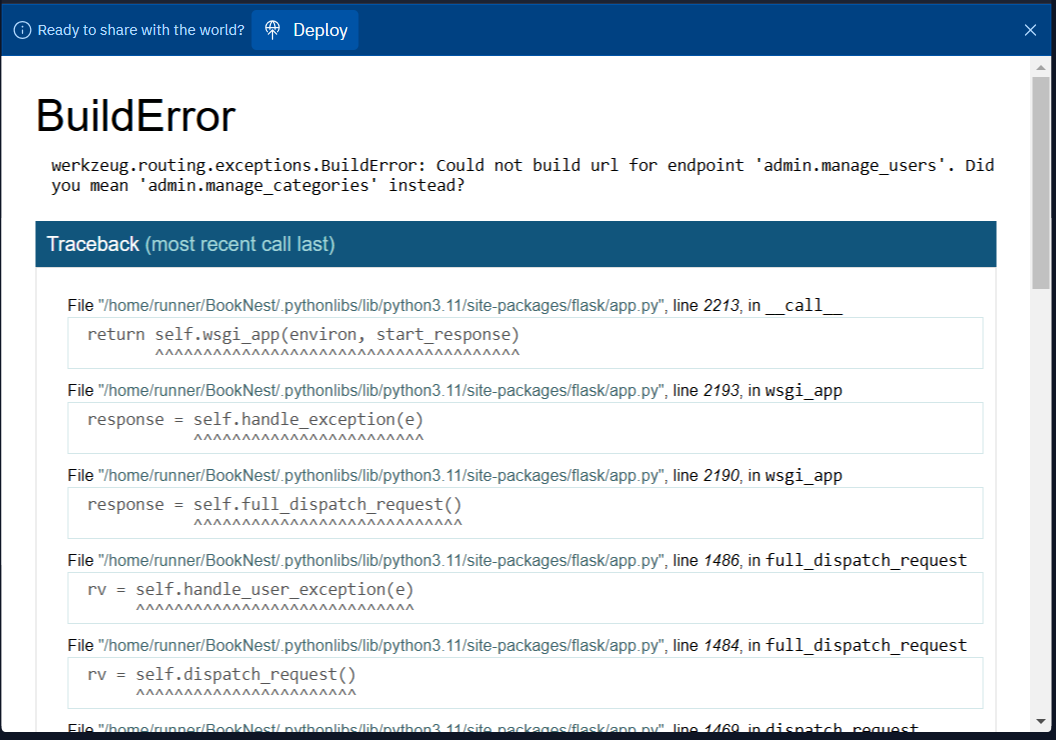
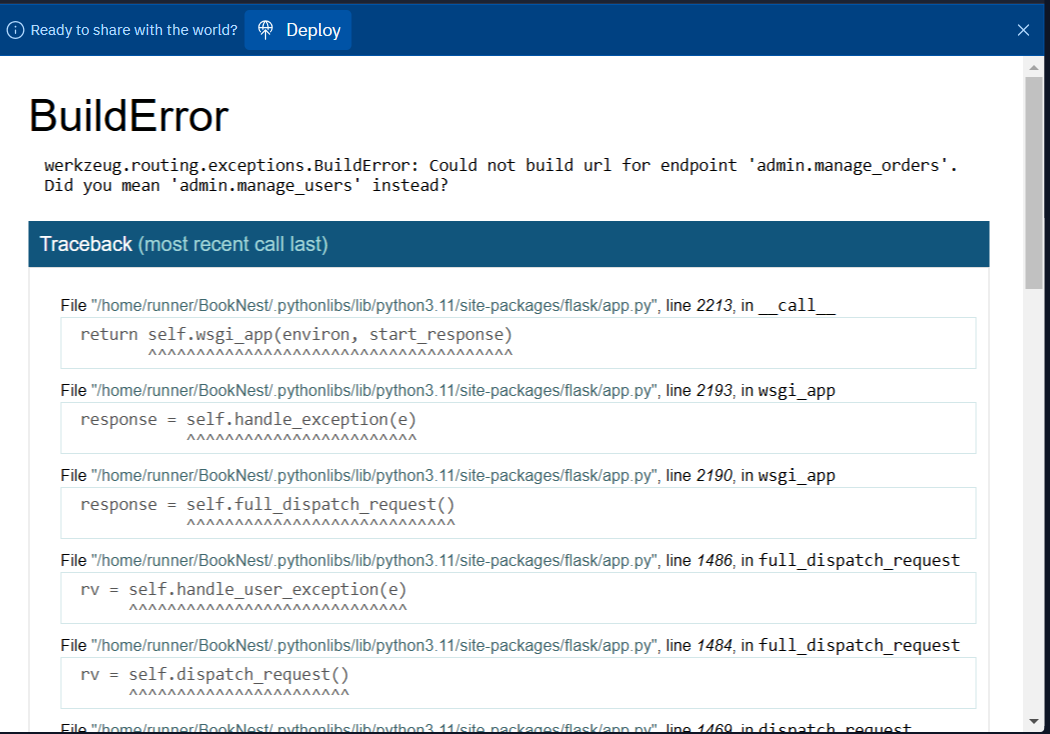
Agent query: 1. Is the book carousel showing featured books on the homepage? 2. Are multiple format options (hardcover, paperback, ebook) displayed on the book detail page? 3. Are the carousel controls and image zoom working?

diff --git a/views/admin.py b/views/admin.py
@@ -33,6 +33,12 @@ def dashboard():
                          orders=orders,
                          categories=categories)
 
+@admin.route('/orders')
+@permission_required('manage_orders')
+def manage_orders():
+    orders = Order.query.order_by(Order.created_at.desc()).all()
+    return render_template('admin/manage_orders.html', orders=orders)
+
 @admin.route('/users')
 @permission_required('manage_users')
 def manage_users():
